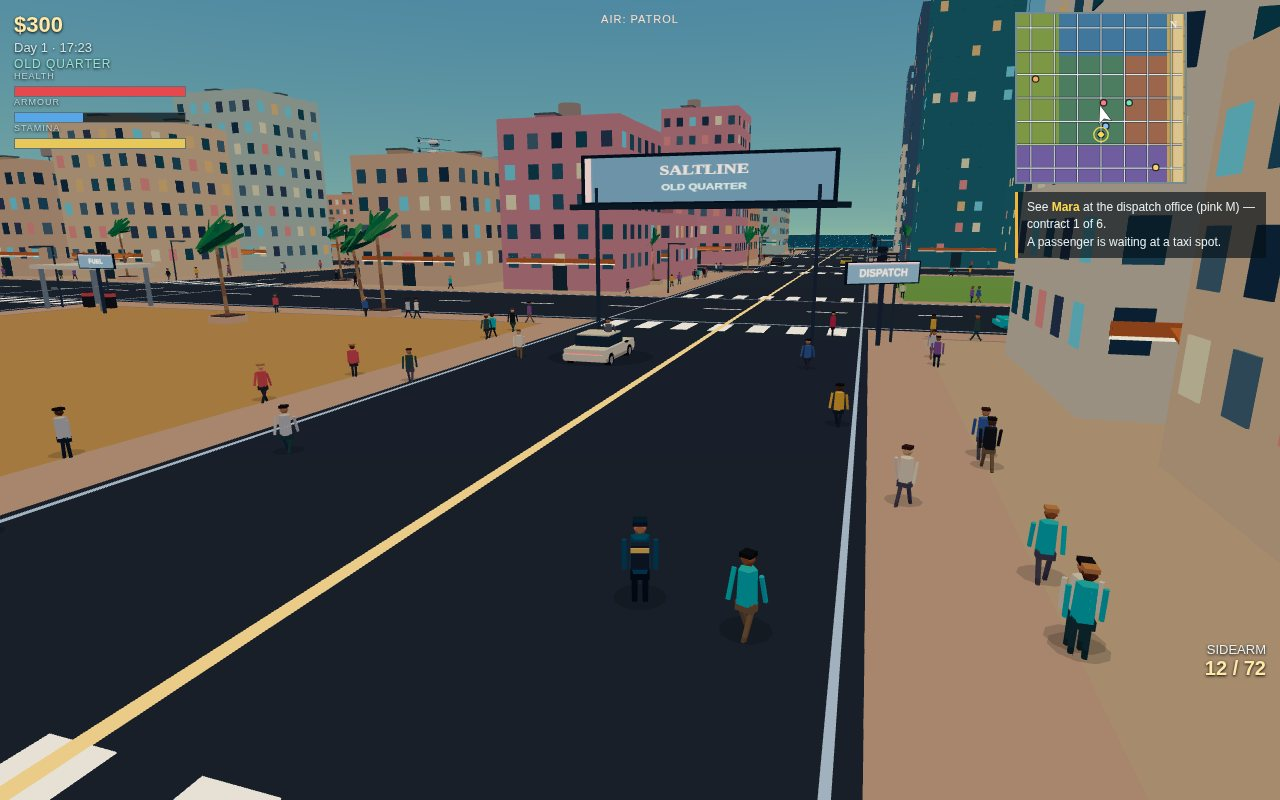
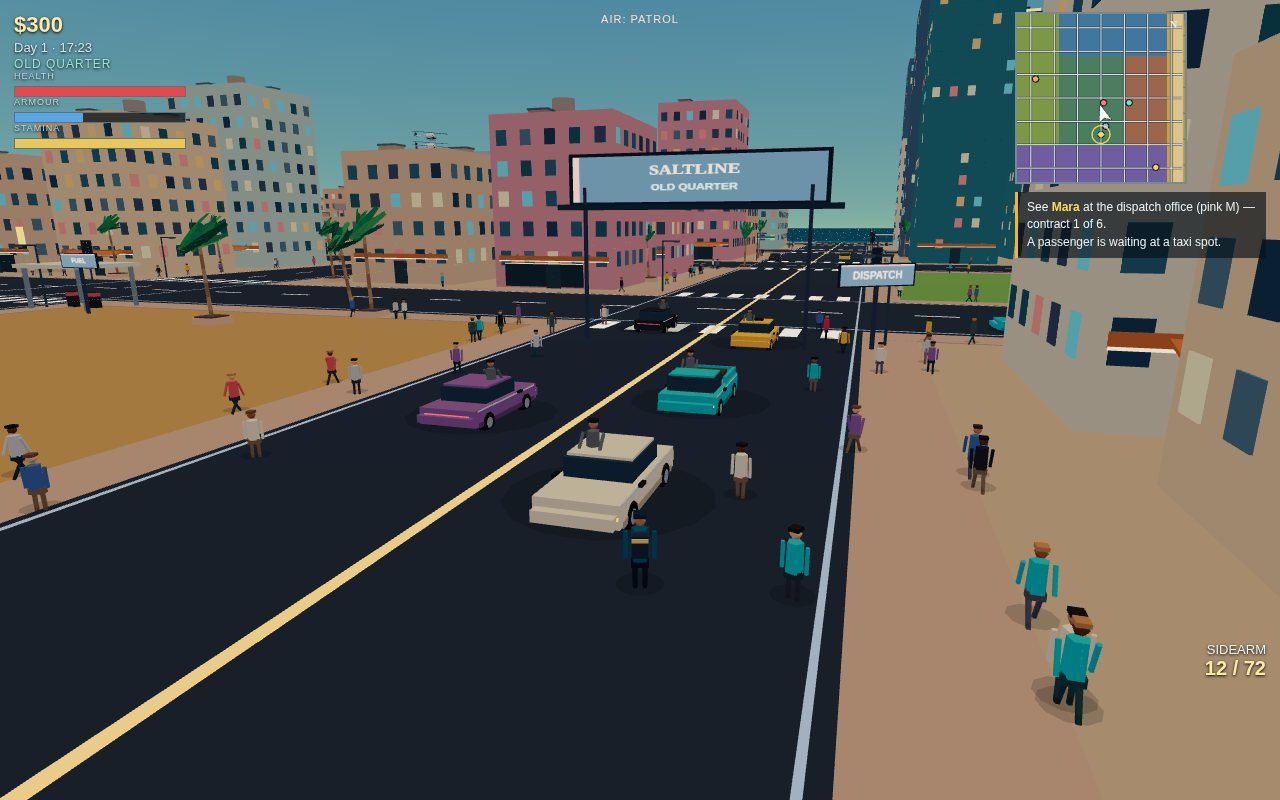
Screenshot set v3: recomposed cover + coastal drive (gate board whole in frame), five-star chase with roadblock, new storm shot replaces beach slot; fixes a latent crash when a roadblock unit is active (lightbar refs); README gains the bounty-page link, rival races and fleet signage

diff --git a/game/src/main.js b/game/src/main.js
@@ -510,7 +510,7 @@
       refs.group.position.set(u.x, 0, u.z);
       refs.group.rotation.y = u.ang;
       const ph = Math.floor(performance.now() / 240) % 2;
-      refs.lightR.visible = ph === 0; refs.lightB.visible = ph !== 0;
+      if (refs.lightbar) { refs.lightbar.l.visible = ph === 0; refs.lightbar.r.visible = ph !== 0; }
     });
     S.policeFoot.forEach((u, i) => {
       const fig = policeFootFigs[i];
@@ -783,21 +783,27 @@
   // scene is composed by placing real entities, and the HUD + minimap are
   // painted exactly as they are in play.
   function stageStreetLife() {
-    // a busy block around the cover scene: queued traffic both ways
-    const spots = [[3.4, 58, 0], [-3.4, 24, Math.PI], [3.4, 74, 0], [-3.4, 84, Math.PI], [3.4, 92, 0]];
-    let n = 0;
-    for (const c of S.cars) {
-      if (!c.driver || c.type === 'bike') continue;
-      const s = spots[n++]; if (!s) break;
+    // a busy block around the cover scene: queued traffic both ways, with
+    // the fleet's shapes on show — a pickup and a hatchback join the queue
+    const spots = [[3.4, 30, 0], [-3.4, 12, Math.PI], [3.4, 16, 0], [-3.4, 34, Math.PI], [3.4, 40, 0], [-3.4, 52, Math.PI]];
+    const drivers = S.cars.filter(c => c.driver && c.type !== 'bike');
+    const ordered = [];
+    for (const t of ['pickup', 'compact', 'taxi']) {
+      const c = drivers.find(q => q.type === t && !ordered.includes(q));
+      if (c) ordered.push(c);
+    }
+    for (const c of drivers) { if (ordered.length >= spots.length) break; if (!ordered.includes(c)) ordered.push(c); }
+    ordered.forEach((c, n) => {
+      const s = spots[n]; if (!s) return;
       c.x = s[0]; c.z = s[1]; c.ang = s[2]; c.speed = 0;
       c.axis = 'NS'; c.road = 3; c.dir = s[2] === 0 ? 1 : -1; c.along = s[1];
-    }
+    });
     // pedestrians on both sidewalks of the same block
     let m = 0;
     for (const pd of S.peds) {
-      if (m >= 14 || pd.state === 'down') continue;
+      if (m >= 18 || pd.state === 'down') continue;
       pd.x = (m % 2 ? -1 : 1) * (6.4 + (m % 5) * 0.85);
-      pd.z = 24 + Math.floor(m / 2) * 7.5 + (m % 3);
+      pd.z = 10 + Math.floor(m / 2) * 5.6 + (m % 3);
       pd.ang = m % 2 ? 0.4 : Math.PI - 0.4;
       m++;
     }
@@ -805,9 +811,11 @@
   function stageCoastalDrive() {
     const p = S.player;
     const car = S.cars[0];
-    car.x = 188.6; car.z = 96; car.ang = Math.PI; car.driver = false; car.parked = false; car.speed = 23;
+    // start further south and angle the camera in, so the SUNSTRAND gate
+    // board sits whole inside the frame instead of cropped at its edge
+    car.x = 192; car.z = 124; car.ang = Math.PI; car.driver = false; car.parked = false; car.speed = 23;
     p.mode = 'car'; p.carId = 0; p.x = car.x; p.z = car.z; p.ang = Math.PI; p.speedNow = 23;
-    const spots = [[188.6, 74, Math.PI], [188.6, 40, Math.PI], [188.6, 12, Math.PI], [195.4, 62, 0], [195.4, 128, 0]];
+    const spots = [[188.6, 100, Math.PI], [188.6, 74, Math.PI], [195.4, 98, 0], [195.4, 142, 0], [188.6, 152, Math.PI]];
     let n = 0;
     for (const c of S.cars) {
       if (!c.driver || c.type === 'bike' || c.id === 0) continue;
@@ -815,7 +823,7 @@
       c.x = s[0]; c.z = s[1]; c.ang = s[2]; c.speed = 11;
       c.axis = 'NS'; c.road = 6; c.dir = s[2] === 0 ? 1 : -1; c.along = s[1];
     }
-    ui.camYaw = Math.PI;
+    ui.camYaw = Math.PI - 0.38;
   }
   function stageChase() {
     const p = S.player;
@@ -830,22 +838,43 @@
     });
     const f = S.policeFoot[0];
     if (f) { f.active = true; f.x = p.x + 4.5; f.z = p.z - 9; f.ang = Math.atan2(p.x - f.x, p.z - f.z); }
+    // at five stars the net closes: a roadblock unit parked across the road
+    const b = S.blockCars && S.blockCars[0];
+    if (b) { b.active = true; b.x = p.x + 1.5; b.z = p.z - 27; b.ang = Math.PI / 2; b.hp = 200; }
     const h = S.helis[0];
     h.x = p.x + 15; h.z = p.z - 24; h.y = 20; h.spotOn = true; h.mode = 'follow';
-    S.helis[1].spotOn = false;
+    const h2 = S.helis[1];
+    if (h2) { h2.x = p.x - 21; h2.z = p.z - 36; h2.y = 27; h2.spotOn = false; h2.mode = 'follow'; }
+  }
+  function stageStorm() {
+    const p = S.player;
+    const car = S.cars[0];
+    car.x = 3.4; car.z = 40; car.ang = Math.PI; car.driver = false; car.parked = false; car.speed = 19;
+    p.mode = 'car'; p.carId = 0; p.x = car.x; p.z = car.z; p.ang = Math.PI; p.speedNow = 19;
+    // the storm at full strength: rain, wet sheen, dark puddles
+    S.weather.storm = true; S.weather.intensity = 1; S.stormI = 1;
+    // a patrol car waiting ahead in the rain, and the heli's beam above
+    const u = S.policeCars[0];
+    if (u) { u.active = true; u.x = -3.4; u.z = 26; u.speed = 0; u.ang = Math.atan2(p.x - u.x, p.z - u.z); }
+    const h = S.helis[0];
+    if (h) { h.x = p.x + 16; h.z = p.z - 16; h.y = 21; h.spotOn = true; h.mode = 'follow'; }
   }
   function applyShot(name) {
     const p = S.player;
     S.weather.storm = false; S.weather.intensity = 0; S.stormI = 0;
     if (name === 'mission-day') {
-      S.hours = 17.35; p.x = 5.4; p.z = 46; p.ang = Math.PI + 0.3; ui.camYaw = Math.PI + 0.3; ui.camDist = 11;
+      S.hours = 17.35; p.x = 5.4; p.z = 44; p.ang = Math.PI + 0.3; ui.camYaw = Math.PI + 0.3; ui.camDist = 12;
     } else if (name === 'driving') {
       S.hours = 16.9; ui.camDist = 10;
     } else if (name === 'night-heli') {
       S.hours = 21.3;
       p.x = 3.4; p.z = 46; p.ang = 2.6;
+      S.wanted.episode = true; S.wanted.ledger = 12; S.wanted.search = 1;
+      ui.camYaw = 2.85;
+    } else if (name === 'storm') {
+      S.hours = 20.4;
       S.wanted.episode = true; S.wanted.ledger = 9; S.wanted.search = 1;
-      ui.camYaw = 2.6;
+      ui.camYaw = Math.PI + 0.25; ui.camDist = 9;
     } else if (name === 'beach') {
       S.hours = 17.9; p.x = 213; p.z = 30; p.ang = Math.PI / 2; ui.camYaw = Math.PI / 2 - 0.55; ui.camDist = 11;
     }
@@ -854,6 +883,7 @@
     if (name === 'mission-day') stageStreetLife();
     if (name === 'driving') stageCoastalDrive();
     if (name === 'night-heli') stageChase();
+    if (name === 'storm') stageStorm();
     if (name === 'beach') { p.x = 213; p.z = 30; p.y = 0; }
     S.starsCache = sim.stars();
     const objective = computeObjective();

diff --git a/README.md b/README.md
@@ -9,14 +9,19 @@ static files. You are a runner on the Saltline coast: take contracts from
 Mara at the dispatch office, move packages, cars and worse across six
 districts, and close all six contracts before the city closes on you.
 
-Entry for the make.fun bounty [gta6-01](https://make.fun/c/gta6-01).
+Entry for the make.fun bounty [gta6-01](https://make.fun/c/gta6-01) —
+bounty page: [make.fun/bounty/gta6-01](https://make.fun/bounty/gta6-01).
 
 ## The city
 
 One seeded, deterministic city: 131 buildings, 98 street lamps that wake up
 into a full night-lighting layer after dark, 720 pedestrians, 78 vehicles
-with working traffic, traffic lights and night parking. After dark a second
-layer of lit windows switches on, so the towers feel lived in. Six districts —
+with working traffic, traffic lights and night parking. The fleet reads at
+a glance — sedans, sport coupes, vans, taxis, pickups with loaded beds and
+compact hatchbacks — and the buildings carry their own signage: glazed
+shopfronts, blade signs over the pavement, lit panels on the tower roofs.
+After dark a second layer of lit windows switches on, so the towers feel
+lived in. Six districts —
 Old Quarter, Glass District, Coral Heights, Little Palm, Port Sol and
 Sunstrand Beach — each with its own standing: finish contracts and fares to
 earn shop discounts, spill blood and it collapses.
@@ -34,14 +39,16 @@ earn shop discounts, spill blood and it collapses.
 - **Side money** — taxi fares with time bonuses (your passenger rides in the
   back seat), 20 Dusk Shells on the coast, four shop robberies worked as a
   hold-E channel — let go of the key and the job dies — a chop shop in Port
-  Sol that takes stolen civilian cars, two street races and the nine-gate
-  Coast Run time trial.
+  Sol that takes stolen civilian cars, two street races against a crimson
+  rival who runs the same gates on the same streets — first to the last
+  gate takes the purse — and the nine-gate Coast Run time trial.
 - **Crew** — Mara's lookout warns you about incoming units and can cut a
   search for $50; Nico fixes cars, sells a 2-second quick fix in the field
   and fits clean plates that drop a star.
 - **A living coast** — wadeable shallows with swimmers paddling off the
   piers, three boats at the piers, beach crowds that scatter when a storm
-  rolls in, tow trucks that haul wrecks and abandoned cars, ambulances that
+  rolls in — and when it does, the roads shine wet and dark puddles pool
+  along the avenues — tow trucks that haul wrecks and abandoned cars, ambulances that
   revive the fallen, fuel that burns, weather that turns, and a day that
   runs from dawn patrol to last ferry.
 - **Street life** — traffic runs the same light cycle you see on the
